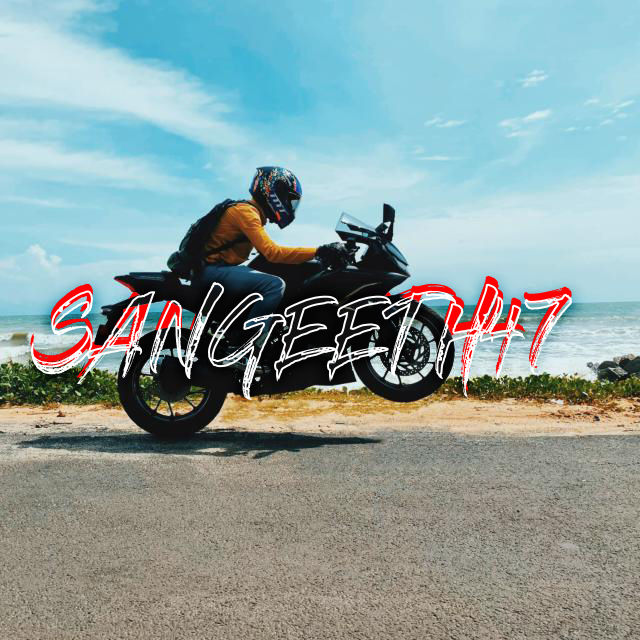
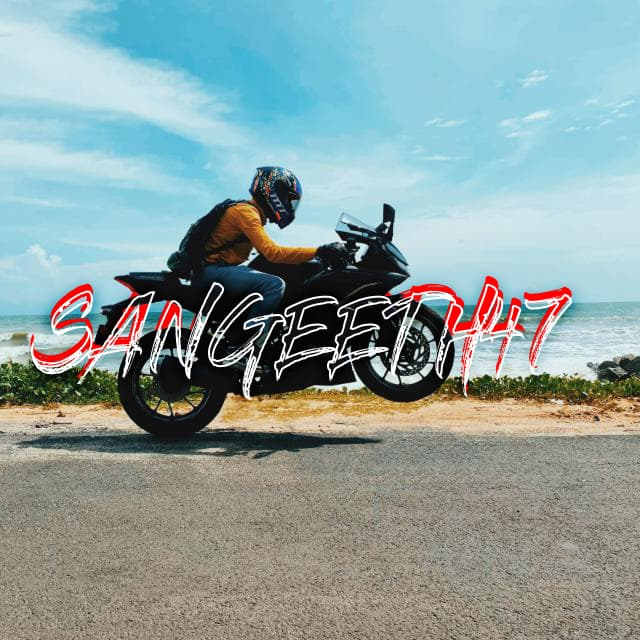
seov3-alttext

diff --git a/index.html b/index.html
@@ -91,7 +91,7 @@
             <!-- about wrapper -->
             <div class="about">
                 <div class="about-img-holder fly-in-left">
-                    <img src="assets/imgs/sangeeth.jpg" class="about-img">
+                    <img src="assets/imgs/sangeeth.jpg" alt="sangeeth47" class="about-img">
                 </div>
                 <div class="about-caption">
                     <p class="section-subtitle fly-in-right">Who Am I ?</p>
@@ -319,7 +319,7 @@
                 </div>
                 <div class="col-md-6 col-sm-6 col-12 mb-4 fly-in-flip-up">
                     <a href="https://sangeeth-47.github.io/fuel/login" target="_blank" class="portfolio-card">
-                        <img class="portfolio-card-img" src="assets/imgs/fuel.PNG" class="img-responsive rounded">
+                        <img class="portfolio-card-img" src="assets/imgs/fuel.webp" class="img-responsive rounded">
                         <span class="portfolio-card-overlay">
                             <span class="portfolio-card-caption">
                                 <h4>Fuel N Fix Tracker</h4>
@@ -330,7 +330,7 @@
                 </div>
                 <div class="col-md-6 col-sm-6 col-12 mb-4 fly-in-flip-up">
                     <a href="#" class="portfolio-card">
-                        <img class="portfolio-card-img" src="assets/imgs/gemini-comingsoon.png" class="img-responsive rounded">
+                        <img class="portfolio-card-img" src="assets/imgs/gemini-comingsoon.webp" class="img-responsive rounded">
                         <span class="portfolio-card-overlay">
                             <span class="portfolio-card-caption">
                                 <h4>Coming Soon...</h4>
@@ -629,7 +629,7 @@
                 <div class="col-md-6">
                     <div class="testimonial-card">
                         <div class="testimonial-card-img-holder">
-                            <img src="assets/imgs/avatar2-sangeeth.jpg" class="testimonial-card-img">
+                            <img src="assets/imgs/avatar2-sangeeth.webp" alt="sangeeth47" class="testimonial-card-img">
                         </div>
                         <div class="testimonial-card-body fly-in-pop">
                             <p class="testimonial-card-subtitle">Probably thinks I'm mysterious… or just ignoring them. Truth is, I don’t talk much—not because I don’t like people, but because I’m usually too deep into coding, gaming, or obsessing over finishing that one task I started three hours ago and refuse to leave half-done. If you see me online, I’m either building something cool… or stuck in a boss fight.</p>

diff --git a/assets/css/sangeeth.css b/assets/css/sangeeth.css
@@ -12106,7 +12106,7 @@ backdrop-filter: blur(1px);
   -webkit-justify-content: center;
       -ms-flex-pack: center;
           justify-content: center;
-  background-image: url(../imgs/header-sangeet.jpeg);
+  background-image: url(../imgs/header-sangeeth47.webp);
   background-size: cover;
   background-repeat: no-repeat;
   background-position: center 80%; /* Moved up from center center */
